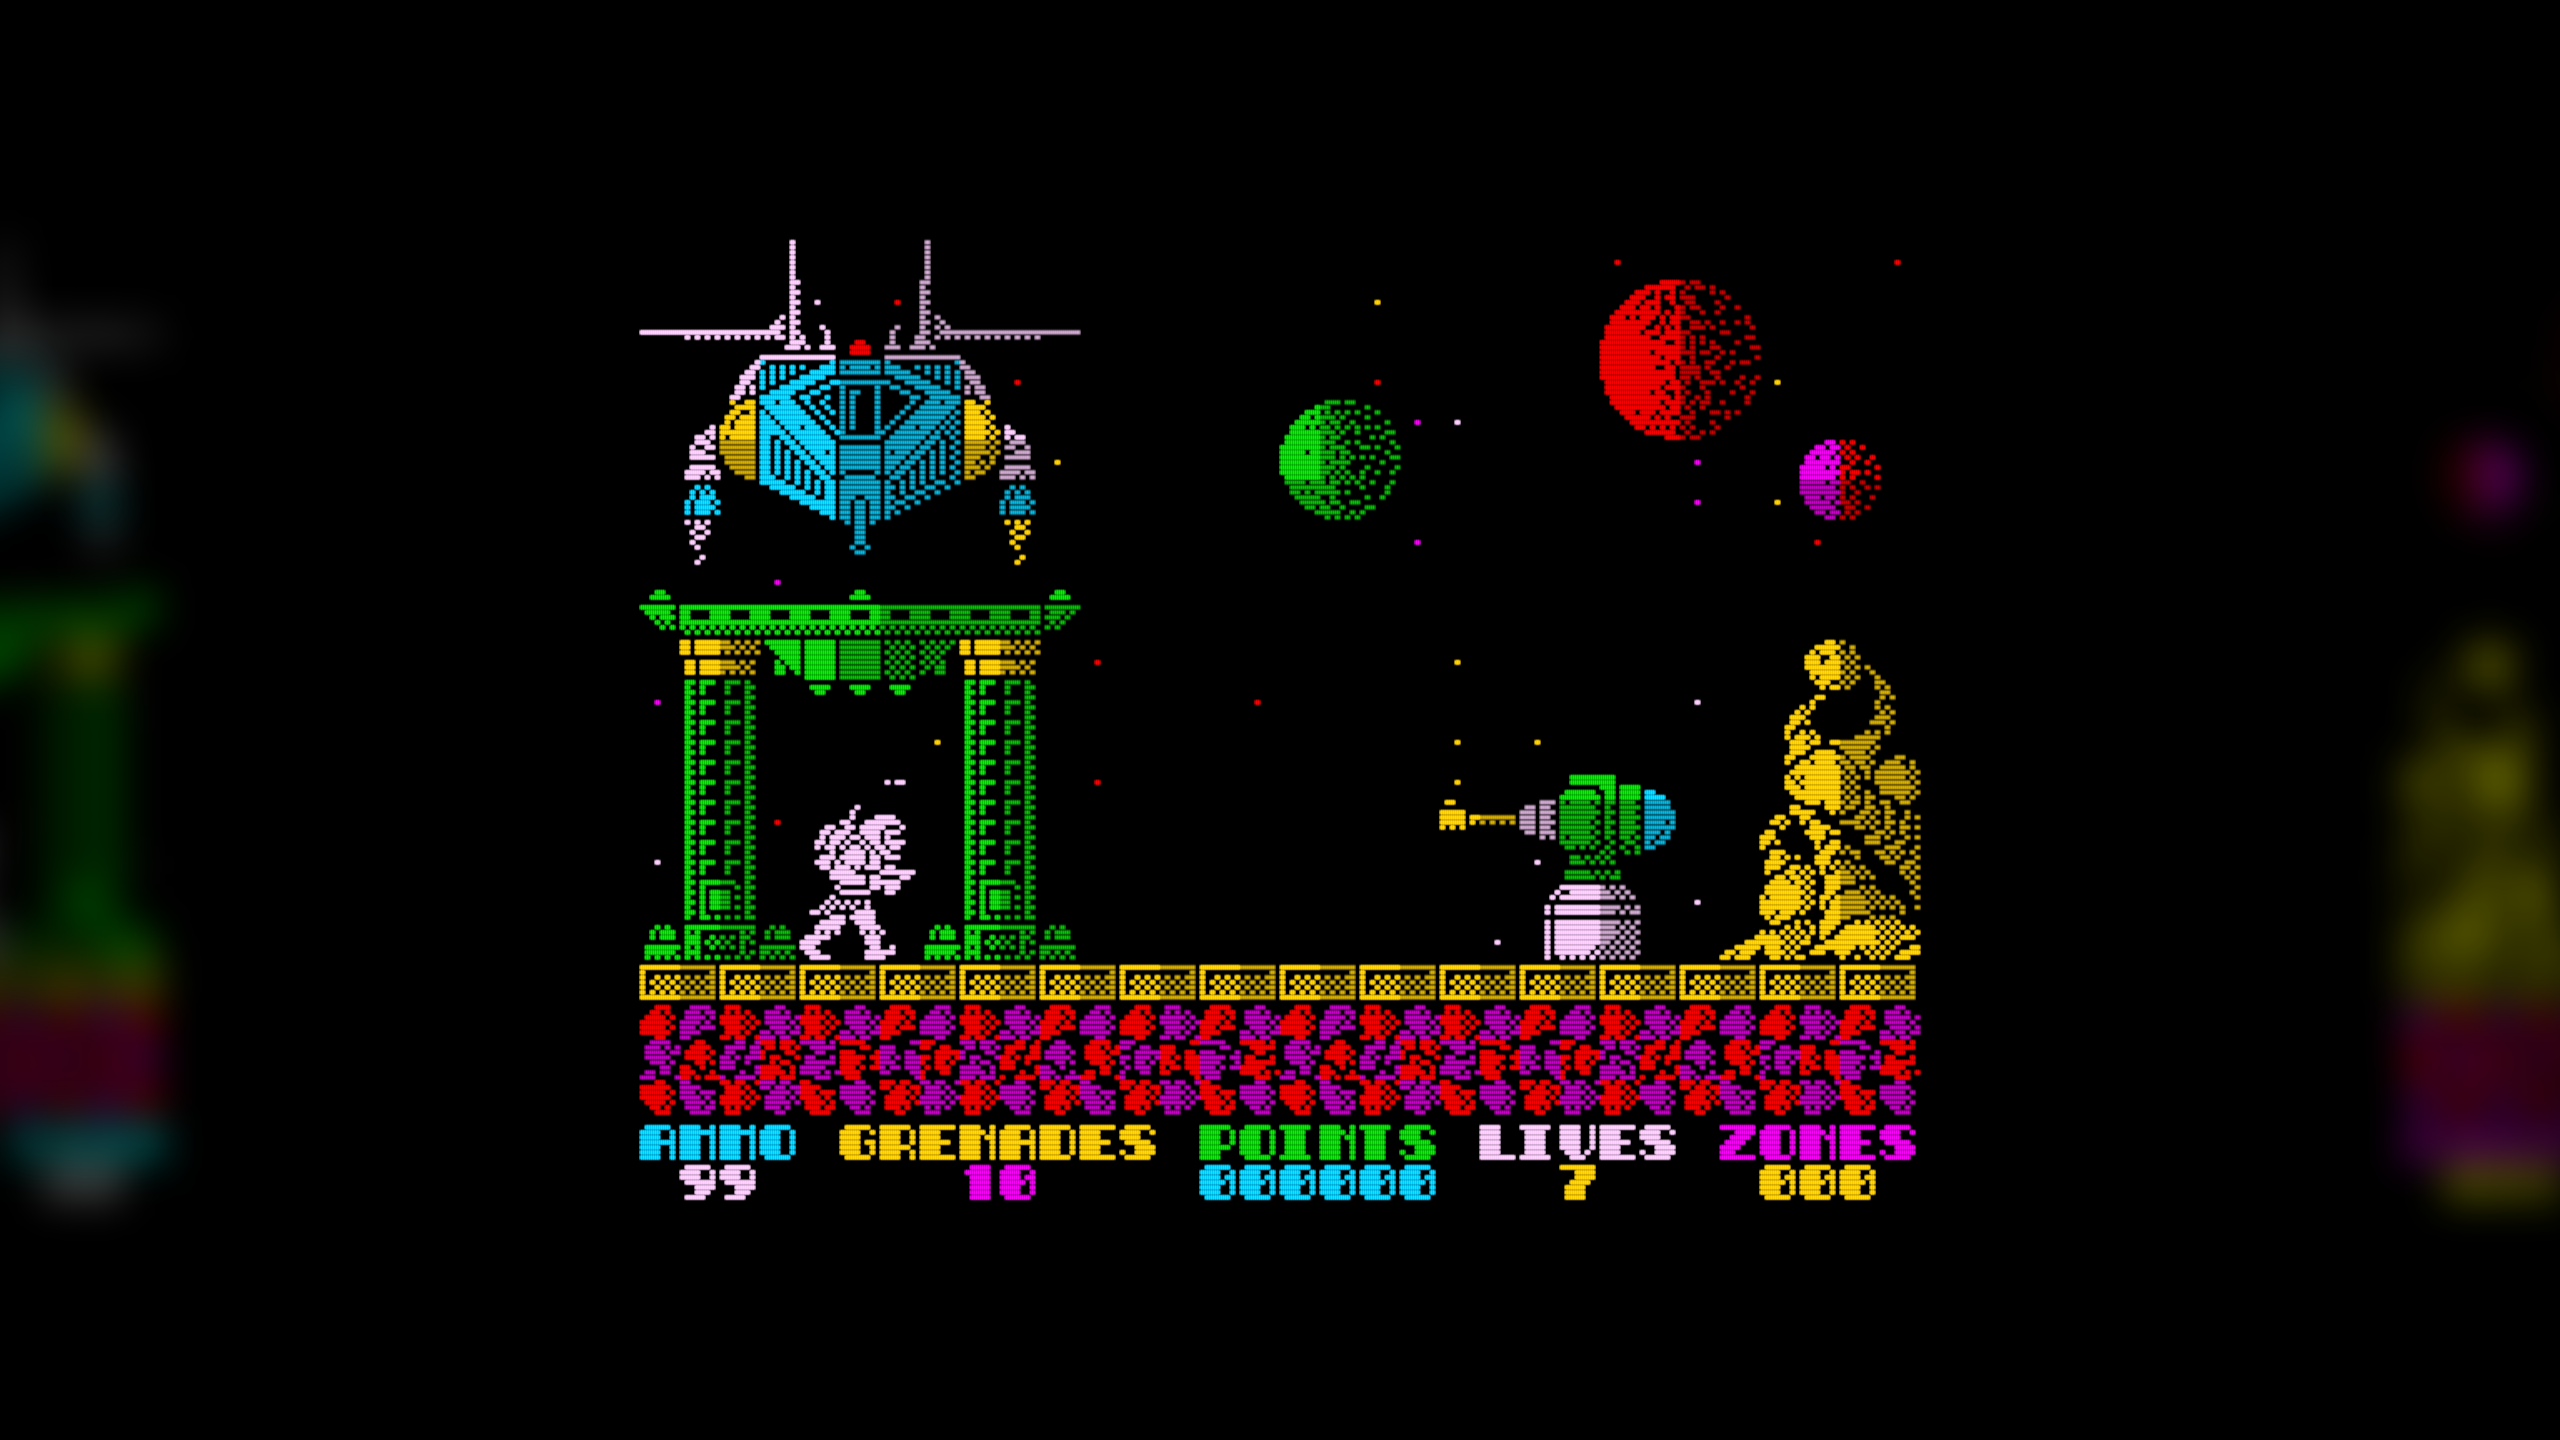
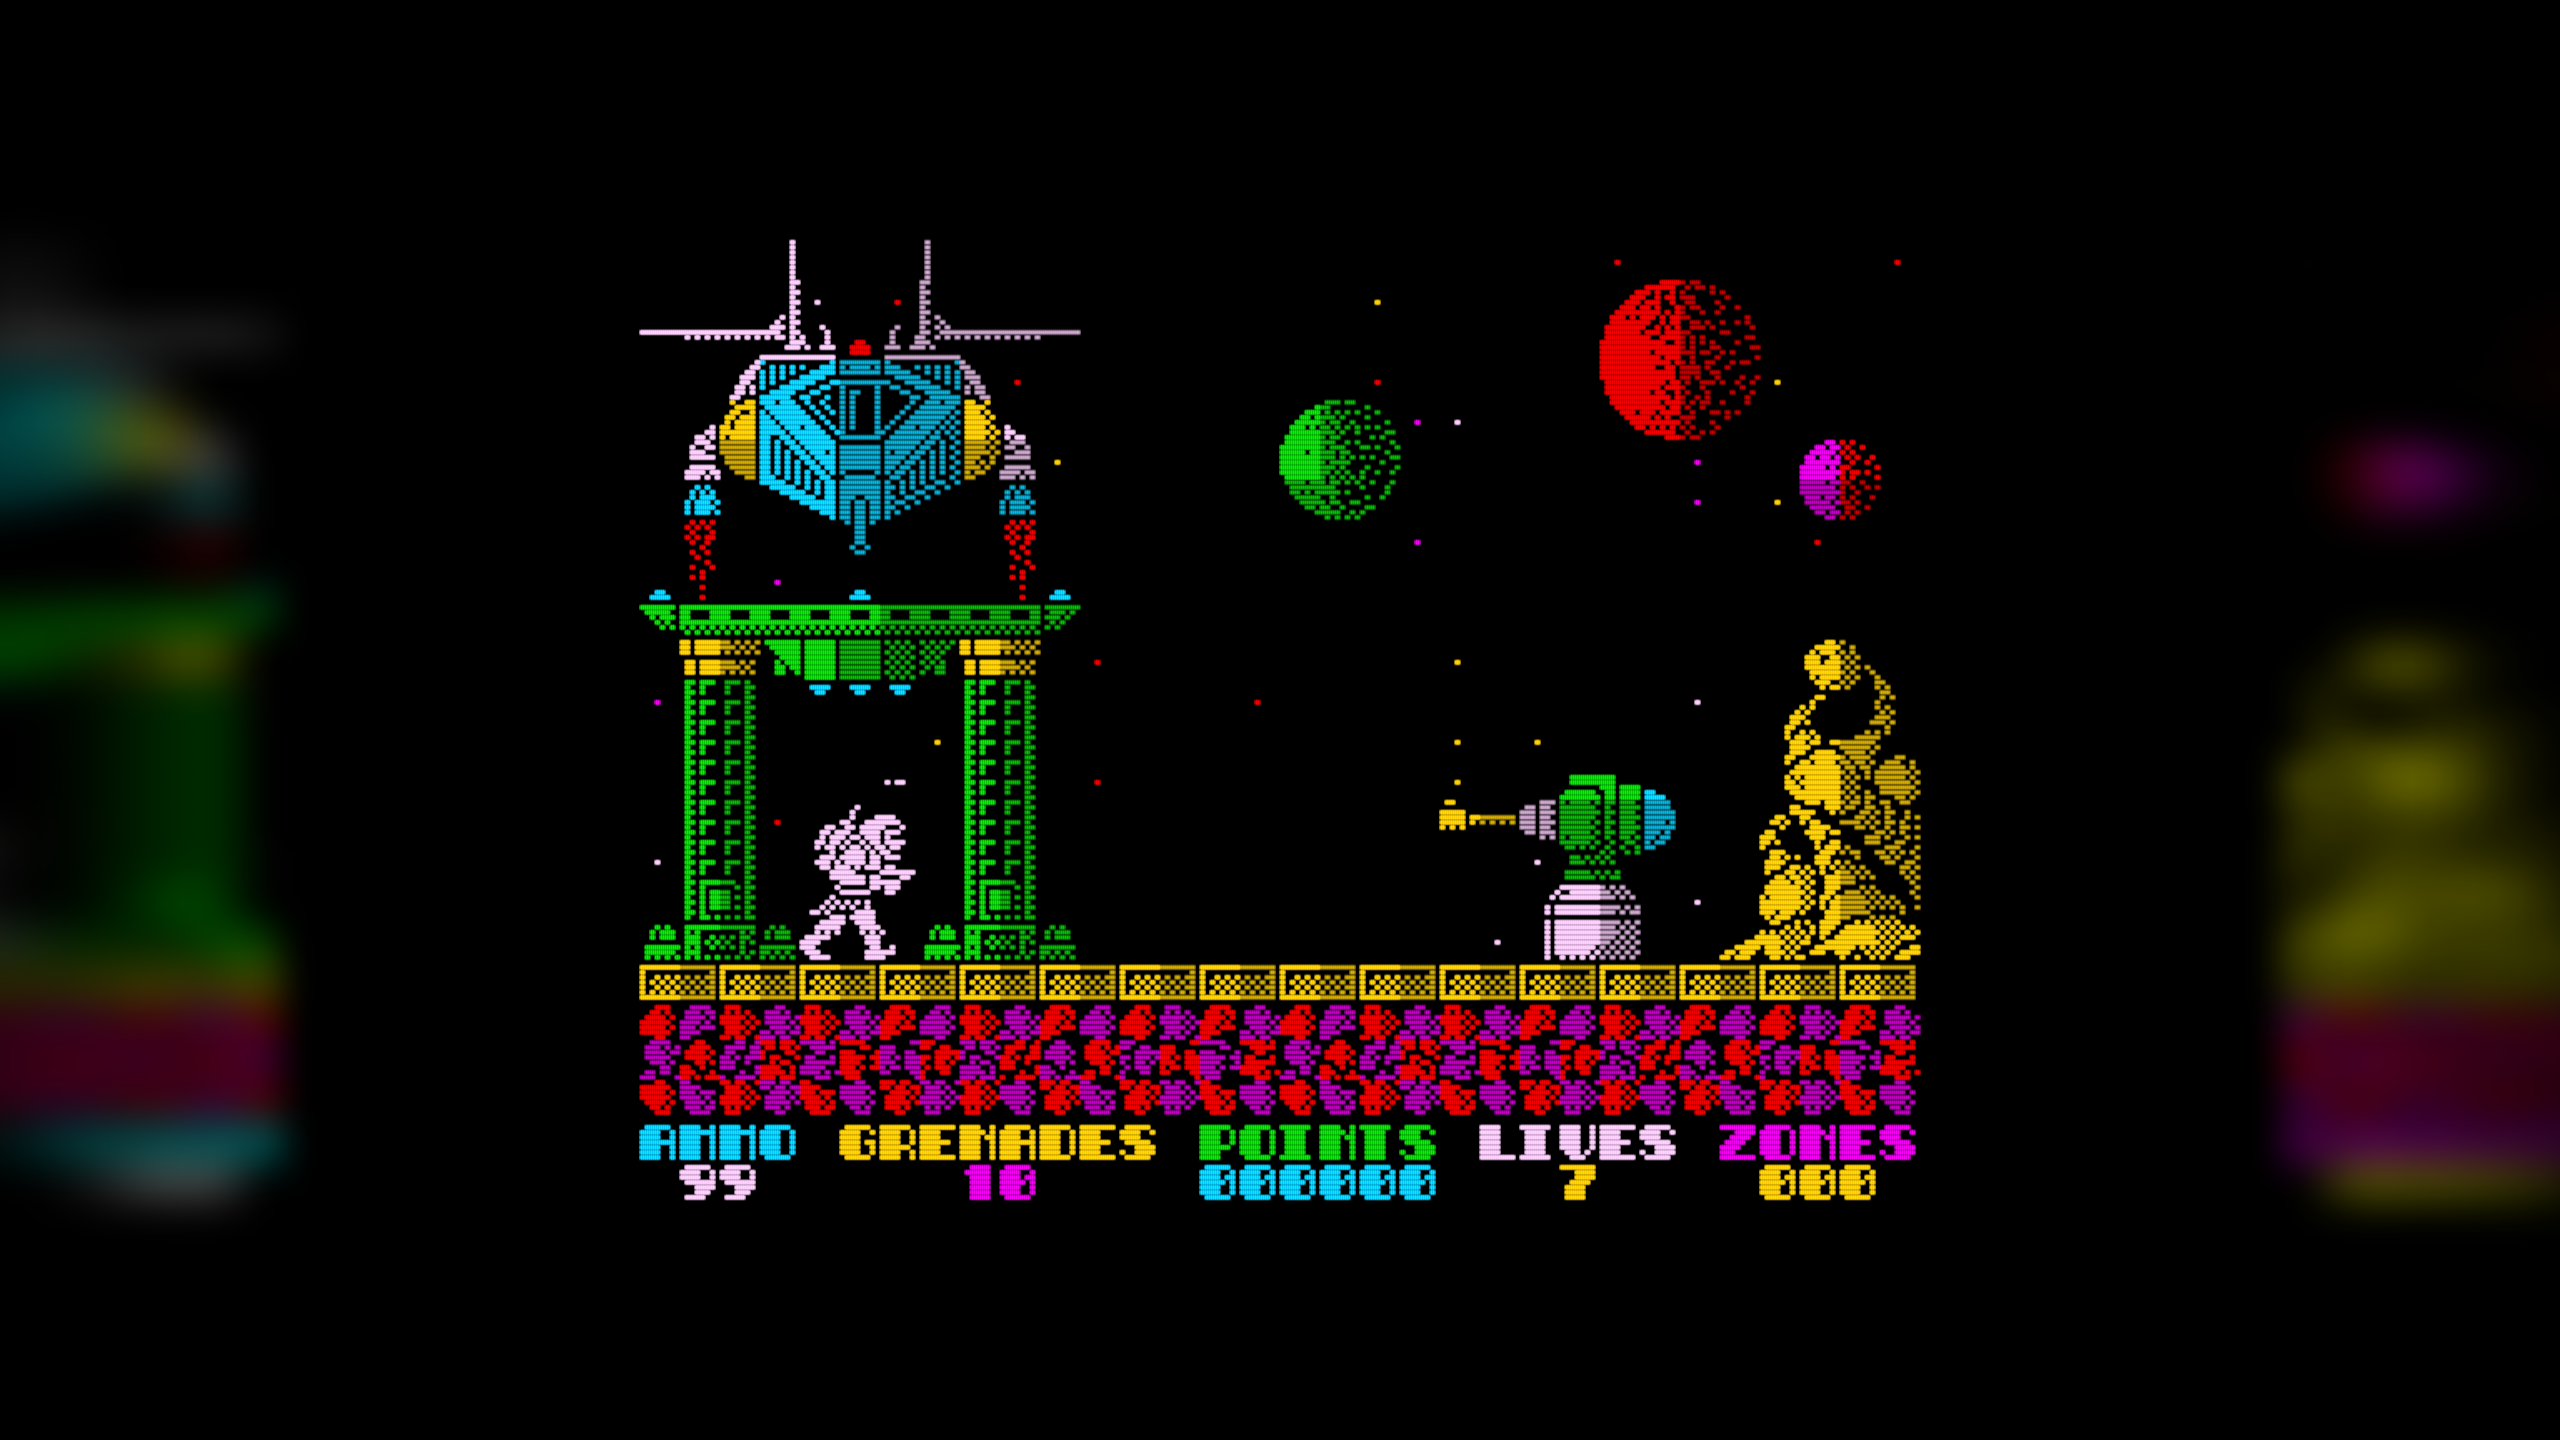
manual: side fill stretch and Defaults, the window's size remembered

diff --git a/docs/manual/view.md b/docs/manual/view.md
@@ -26,14 +26,14 @@ of them changes.
 
 The window can also be maximized, or resized by dragging its edges or snapping it to
 half of the screen. At any size other than its scale's, the picture is fitted to the
-window as in fullscreen: as big as fits, with black bars where it does not fill, and
-more border at the sides as far as the machine's frame goes (see
-[Fullscreen](#fullscreen)). A size picked in **View > Size**, or a maximized window
-restored, brings back the scale's size with its whole pixels. On macOS the green
+window as in fullscreen: as big as fits, with black bars where it does not fill (or a
+side fill, see [Fullscreen](#fullscreen)), and more border at the sides up to the full
+border. A size picked in **View > Size** brings back the scale's size with its whole
+pixels; a maximized window restored gets the size it had before. On macOS the green
 button is fullscreen; Option-click on it maximizes the window.
 
-A maximized window is remembered: if the program is closed maximized, it starts
-maximized next time, on the same screen.
+The window's size is remembered: if the program is closed maximized, it starts maximized
+next time, on the same screen; closed at a size of its own, it starts at that size.
 
 ## Border
 

diff --git a/docs/manual/options-video.md b/docs/manual/options-video.md
@@ -24,15 +24,17 @@ The page has four groups:
 **Side fill** is what fills the room the picture leaves free in fullscreen or in a
 maximized window: **Black**, **Stretched edges** or **Mirror**, the same choice as
 **View > Side Fill** (see [Fullscreen](view.md#fullscreen)). The {icon}`settings` button
-beside it opens four sliders. The window shows every move at once, and **Cancel** puts
-back what was there.
+beside it opens five sliders. The window shows every move at once, **Defaults** puts
+every slider back where it starts, and **Cancel** puts back what was there.
 
 ![The side fill settings](images/options-video-side-fill.png)
 
 - **Blur** - how soft the fill is, from crisp to a wide glow;
 - **Brightness** - how bright it is beside the picture;
 - **Fade** - how much darker it gets towards the screen's edge;
-- **Edge** - how gently the picture runs into the fill.
+- **Edge** - how gently the picture runs into the fill;
+- **Stretch** - **Mirror** only: the reflection squeezed by the picture and stretched
+  towards the screen's edge, like a curved mirror; at the left end it is a plain one.
 
 The button is grayed out with **Black**, and the whole setting without OpenGL.
 
